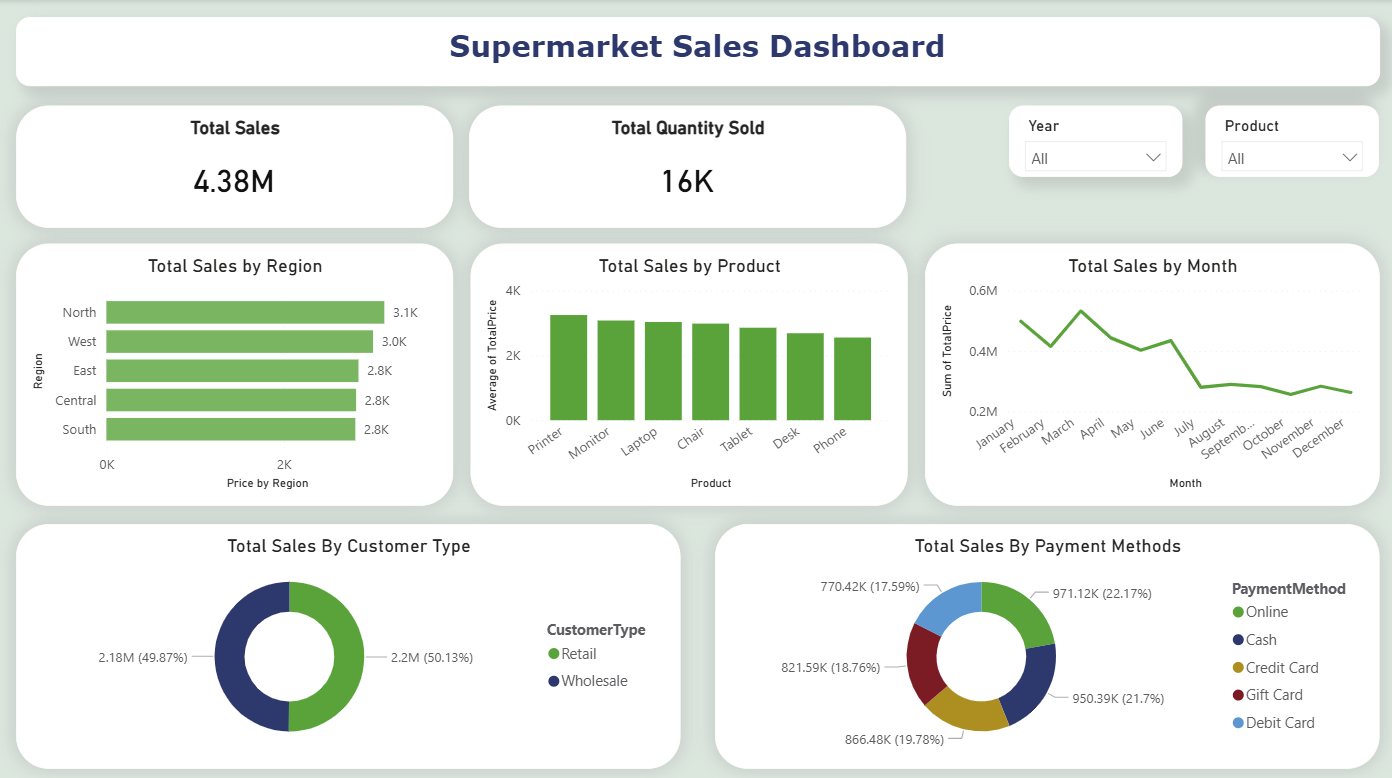
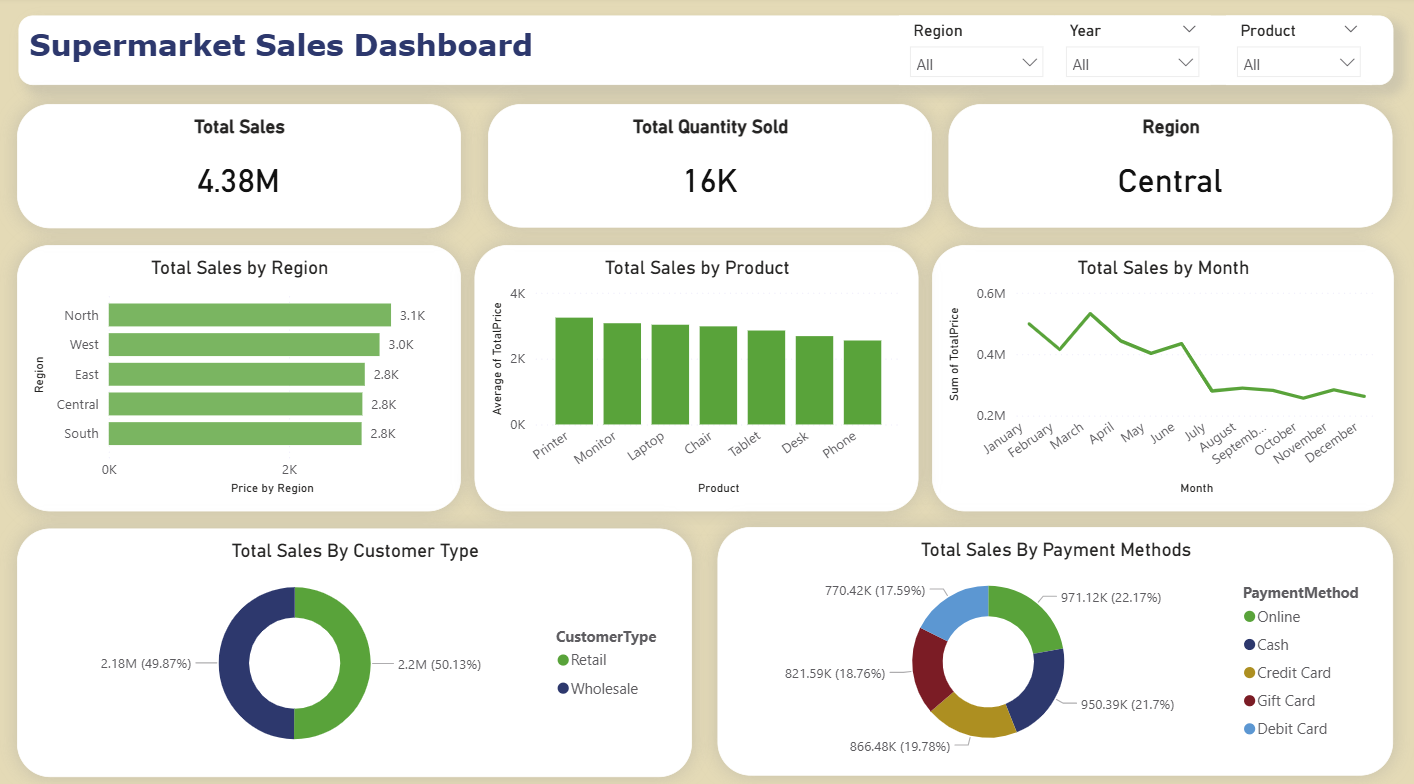
Updated dashboard with new looks !

diff --git a/Supermarket sales dashboard/README.md b/Supermarket sales dashboard/README.md
@@ -1,0 +1,216 @@
+\# \*\*🛒 Supermarket Sales Dashboard – Business Performance Insights\*\*
+
+
+
+\## 📊 Project Overview
+
+
+
+This Power BI dashboard provides a comprehensive analysis of supermarket sales performance. It enables stakeholders to monitor revenue, track product performance, and analyze customer purchasing behavior across regions and time periods.
+
+
+
+The dashboard is designed to support data-driven decision-making by presenting key metrics and trends in a clear and interactive format.
+
+
+
+\---
+
+
+
+\## 📈 Key Features \& Insights
+
+
+
+\### 💰 Sales Overview
+
+
+
+\* \*\*Total Sales:\*\* 4.38M
+
+\* \*\*Total Quantity Sold:\*\* 16K
+
+\* Provides a high-level snapshot of business performance
+
+
+
+\---
+
+
+
+\### 🌍 Regional Performance
+
+
+
+\* Compares sales across regions (North, West, East, Central, South)
+
+\* Identifies top-performing and underperforming areas
+
+
+
+\---
+
+
+
+\### 📦 Product Analysis
+
+
+
+\* Tracks sales across product categories such as:
+
+
+
+&#x20; \* Printer
+
+&#x20; \* Monitor
+
+&#x20; \* Laptop
+
+&#x20; \* Chair
+
+&#x20; \* Tablet
+
+&#x20; \* Desk
+
+&#x20; \* Phone
+
+\* Helps identify best-selling products
+
+
+
+\---
+
+
+
+\### 📅 Monthly Trends
+
+
+
+\* Visualizes sales trends over time
+
+\* Highlights seasonal patterns and fluctuations
+
+
+
+\---
+
+
+
+\### 👥 Customer Insights
+
+
+
+\* Segmentation into:
+
+
+
+&#x20; \* Retail
+
+&#x20; \* Wholesale
+
+\* Helps understand customer contribution to total revenue
+
+
+
+\---
+
+
+
+\### 💳 Payment Method Analysis
+
+
+
+\* Breakdown of sales by payment types:
+
+
+
+&#x20; \* Online
+
+&#x20; \* Cash
+
+&#x20; \* Credit Card
+
+&#x20; \* Gift Card
+
+&#x20; \* Debit Card
+
+\* Useful for understanding customer payment preferences
+
+
+
+\---
+
+
+
+\## ⚙ Technical Highlights
+
+
+
+\### 🗂 Data Modeling
+
+
+
+\* Structured data model for efficient filtering and performance
+
+
+
+\### 🧮 DAX Measures
+
+
+
+\* Calculated KPIs such as:
+
+
+
+&#x20; \* Total Sales
+
+&#x20; \* Quantity Sold
+
+&#x20; \* Regional Sales Distribution
+
+
+
+\### 🎛 Interactive Filters
+
+
+
+\* Dynamic slicers for:
+
+
+
+&#x20; \* Region
+
+&#x20; \* Year
+
+&#x20; \* Product
+
+
+
+\---
+
+
+
+\## 🛠 Tools Used
+
+
+
+\* Power BI
+
+\* Power Query
+
+\* DAX
+
+
+
+\---
+
+
+
+\## 🖼 Dashboard Preview
+
+
+
+!\[Dashboard](preview.png)
+
+
+
